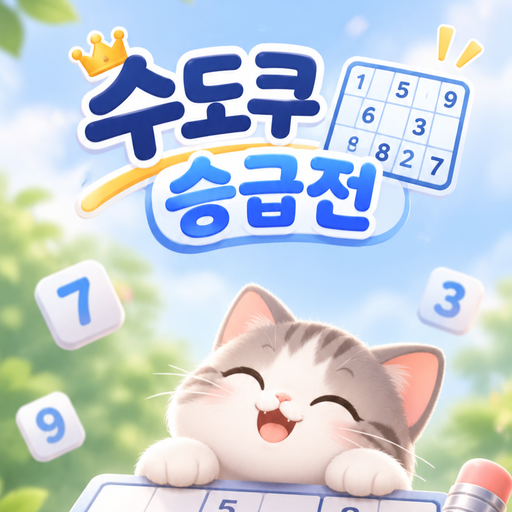
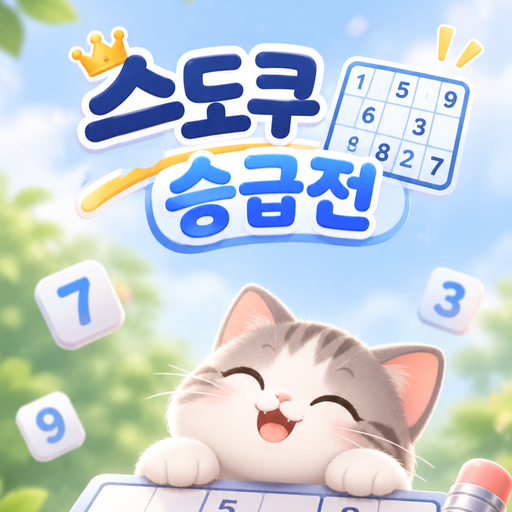
시작 그림과 앱 아이콘의 제목 '수도쿠'를 게임 이름 '스도쿠'로 고침 (tools/make_gate.py)

Changed region(s): [[0.2188, 0.25, 0.3438, 0.3438]]

diff --git a/index.html b/index.html
@@ -13,12 +13,12 @@
   <meta name="mobile-web-app-capable" content="yes">
   <meta name="apple-mobile-web-app-capable" content="yes">
   <meta name="apple-mobile-web-app-title" content="스도쿠 승급전">
-  <link rel="stylesheet" href="css/style.css?v=22">
-  <link rel="stylesheet" href="css/skins.css?v=22">
-  <link rel="stylesheet" href="css/screens.css?v=22">
-  <link rel="stylesheet" href="css/about.css?v=22">
+  <link rel="stylesheet" href="css/style.css?v=23">
+  <link rel="stylesheet" href="css/skins.css?v=23">
+  <link rel="stylesheet" href="css/screens.css?v=23">
+  <link rel="stylesheet" href="css/about.css?v=23">
   <link rel="preload" as="image" href="img/gate.webp">
-  <link rel="stylesheet" href="css/dark.css?v=22">
+  <link rel="stylesheet" href="css/dark.css?v=23">
   <!-- 다크 모드와 스킨을 화면이 뜨기 전에 먼저 입힙니다 (밝은 화면이 번쩍이지 않게) -->
   <script>
     (function () {
@@ -727,18 +727,18 @@
 
   <canvas id="confetti" hidden></canvas>
 
-  <script src="js/config.js?v=22"></script>
-  <script src="js/engine.js?v=22"></script>
-  <script src="js/game.js?v=22"></script>
-  <script src="js/progress.js?v=22"></script>
-  <script src="js/settings.js?v=22"></script>
-  <script src="js/skins.js?v=22"></script>
-  <script src="js/sound.js?v=22"></script>
-  <script src="js/effects.js?v=22"></script>
-  <script src="js/badges.js?v=22"></script>
-  <script src="js/account.js?v=22"></script>
-  <script src="js/tutorial.js?v=22"></script>
-  <script src="js/hero.js?v=22"></script>
-  <script src="js/ui.js?v=22"></script>
+  <script src="js/config.js?v=23"></script>
+  <script src="js/engine.js?v=23"></script>
+  <script src="js/game.js?v=23"></script>
+  <script src="js/progress.js?v=23"></script>
+  <script src="js/settings.js?v=23"></script>
+  <script src="js/skins.js?v=23"></script>
+  <script src="js/sound.js?v=23"></script>
+  <script src="js/effects.js?v=23"></script>
+  <script src="js/badges.js?v=23"></script>
+  <script src="js/account.js?v=23"></script>
+  <script src="js/tutorial.js?v=23"></script>
+  <script src="js/hero.js?v=23"></script>
+  <script src="js/ui.js?v=23"></script>
 </body>
 </html>

diff --git a/js/config.js b/js/config.js
@@ -9,8 +9,8 @@
 
   S.Config = {
     // 화면 오른쪽 위에 작게 보이는 버전 (휴대폰에 새 파일이 들어왔는지 확인용)
-    // 고칠 때마다  python tools/bump_version.py  로 올립니다 (sw.js 의 CACHE, index.html 의 ?v= 도 함께) : sudoku-files-v22 → 'v22'
-    VERSION: 'v22',
+    // 고칠 때마다  python tools/bump_version.py  로 올립니다 (sw.js 의 CACHE, index.html 의 ?v= 도 함께) : sudoku-files-v23 → 'v23'
+    VERSION: 'v23',
 
     FAILS_TO_DEMOTE: 3, // 연속으로 이만큼 실패하면 강등
     MAX_MISTAKES: 3, // 한 판에서 틀릴 수 있는 횟수

diff --git a/sw.js b/sw.js
@@ -10,7 +10,7 @@
  * 새 파일(그림, js, css)을 추가했으면 아래 FILES 목록에도 한 줄 넣어 주세요.
  * 버전을 올릴 때는  python tools/bump_version.py  를 쓰면 CACHE, 화면 버전, index.html 의 ?v= 가 한 번에 바뀝니다.
  */
-var CACHE = 'sudoku-files-v22';
+var CACHE = 'sudoku-files-v23';
 var FILES = [
   './',
   'index.html',

diff --git a/tools/make_gate.py b/tools/make_gate.py
@@ -1,0 +1,141 @@
+"""
+시작 그림(대문)과 앱 아이콘을 만듭니다.  (게임 폴더에서)  python tools/make_gate.py
+
+  원본 : img/18884.png  (인터넷에 올리지 않음)
+  할 일 : 1) 그림 제목의 "수도쿠" 를 "스도쿠" 로 고침 (수 글자 아래 세로 막대를 지우고, 왼쪽 옆 모습으로 채움)
+          2) img/gate.webp, img/splash.webp (예전 이름, 같은 그림) 저장
+          3) icons/ 의 앱 아이콘 4개 저장
+  확인용 : python tools/make_gate.py 확인  → _preview/gate_fix.png 에 고친 부분을 크게 저장
+"""
+import os
+import sys
+from PIL import Image, ImageFilter, ImageDraw
+
+ROOT = os.path.join(os.path.dirname(os.path.abspath(__file__)), '..')
+
+
+def p(*a):
+    return os.path.join(ROOT, *a)
+
+
+im = Image.open(p('img', '18884.png')).convert('RGB')
+W, H = im.size
+px = im.load()
+
+
+def dark(c):
+    r, g, b = c
+    return b > 90 and r < 90 and g < 110  # 제목 글자의 진한 남색
+
+
+def orange(c):
+    r, g, b = c
+    return r > 200 and 110 < g < 215 and b < 120  # 제목 아래 주황 띠
+
+
+# ---- 1) "수" 의 가로 막대 아래쪽 경계선 찾기 (막대는 오른쪽으로 갈수록 올라감) ----
+def bar_bottom(x):
+    """세로로 훑어서 남색 덩어리들 중 가로 막대(위쪽 ㅅ 획 다음 덩어리)의 아래 끝"""
+    runs, start = [], None
+    for y in range(275, 440):
+        if dark(px[x, y]):
+            if start is None:
+                start = y
+        elif start is not None:
+            runs.append((start, y))
+            start = None
+    bars = [r for r in runs if r[0] >= 305 and 25 <= r[1] - r[0] <= 50]
+    return bars[0][1] if bars else None
+
+
+xs = [x for x in list(range(180, 238)) + list(range(294, 322)) if bar_bottom(x)]
+pts = [(x, bar_bottom(x)) for x in xs]
+n = len(pts)
+mx = sum(x for x, _ in pts) / n
+my = sum(y for _, y in pts) / n
+slope = sum((x - mx) * (y - my) for x, y in pts) / sum((x - mx) ** 2 for x, _ in pts)
+
+
+def line(x):
+    return my + slope * (x - mx)
+
+
+# ---- 세로 막대 자리(흰 테두리 포함)를 왼쪽 기준 줄의 모습으로 덮기 ----
+X0, X1 = 218, 306          # 덮을 가로 범위 (세로 막대와 그 흰 테두리, 그림자까지)
+REF = 200                  # 기준 줄 (막대가 없는 곳)
+FEATHER = 10               # 가장자리를 부드럽게 섞는 폭
+src = im.copy()
+spx = src.load()
+
+
+def sky_column(x):
+    """x 줄의 하늘 색 (주황 띠나 흰 테두리 같은 하늘 아닌 곳은 바로 위 하늘 색으로 이어 씀)"""
+    out, last = {}, spx[x, 300]
+    for y in range(300, H):
+        r, g, b = spx[x, y]
+        if b > r + 15 and b > 200:  # 하늘(푸른 빛)
+            last = (r, g, b)
+        out[y] = last
+    return out
+
+
+SKY_L, SKY_R = sky_column(X0 - 1), sky_column(X1 + 1)
+def mix(a, b, k):
+    return tuple(int(a[i] * (1 - k) + b[i] * k) for i in range(3))
+
+
+for x in range(X0, X1 + 1):
+    w = min(1.0, (x - X0 + 1) / FEATHER, (X1 - x + 1) / FEATHER)
+    t = (x - X0 + 1) / (X1 - X0 + 2)
+    base = int(round(line(x)))
+    # 주황 띠 윗선 (여기 바로 위까지만 덮고, 경계 몇 줄은 섞어서 부드럽게)
+    otop = next((y for y in range(base + 20, min(H, base + 90)) if orange(spx[x, y])), base + 80)
+    for y in range(base - 6, otop + 2):
+        dy = y - base
+        # 위쪽(막대 아랫선 · 흰 테두리 · 그림자)은 왼쪽 기준 줄을 그대로 옮기고,
+        # 그 아래 하늘은 양옆 하늘 색을 이어서 칠합니다 (세로 이음매가 생기지 않게)
+        fy = line(REF) + (y - line(x))  # 소수점까지 맞춰서 막대 아랫선이 계단지지 않게
+        y0 = int(fy)
+        ref = mix(spx[REF, y0], spx[REF, y0 + 1], fy - y0)
+        sky = mix(SKY_L[y], SKY_R[y], t)
+        k = min(1.0, max(0.0, (dy - 28) / 14))
+        fill = mix(ref, sky, k)
+        if y >= otop - 2:
+            fill = mix(fill, spx[x, y], (y - (otop - 3)) / 5)
+        px[x, y] = mix(spx[x, y], fill, w)
+# 이음매를 아주 살짝 흐리게
+box = (X0 - 4, int(line(X1)) - 8, X1 + 4, int(line(X0)) + 82)
+im.paste(im.crop(box).filter(ImageFilter.GaussianBlur(0.6)), box[:2])
+
+if len(sys.argv) > 1:
+    os.makedirs(p('_preview'), exist_ok=True)
+    a = Image.open(p('img', '18884.png')).convert('RGB').crop((100, 150, 440, 460))
+    b = im.crop((100, 150, 440, 460))
+    out = Image.new('RGB', (a.width * 2 + 10, a.height), 'white')
+    out.paste(a, (0, 0))
+    out.paste(b, (a.width + 10, 0))
+    out.resize((out.width * 2, out.height * 2)).save(p('_preview', 'gate_fix.png'))
+    print('saved _preview/gate_fix.png')
+    sys.exit()
+
+# ---- 2) 시작 그림 ----
+im.save(p('img', 'gate.webp'), 'WEBP', quality=80, method=6)
+im.save(p('img', 'splash.webp'), 'WEBP', quality=80, method=6)
+
+# ---- 3) 앱 아이콘 : 제목과 고양이가 들어가는 정사각형 ----
+Y0 = 120
+sq = im.crop((0, Y0, W, Y0 + W))
+for size, name in [(512, 'icon-512.png'), (192, 'icon-192.png'), (180, 'apple-touch-icon.png')]:
+    sq.resize((size, size), Image.LANCZOS).save(p('icons', name), optimize=True)
+# maskable : 안전 영역(가운데 80%) 안에 그림이 다 들어가게, 바깥은 흐린 그림으로
+S = 512
+bg = sq.resize((S, S), Image.LANCZOS).filter(ImageFilter.GaussianBlur(18))
+inner = int(S * 0.8)
+fg = sq.resize((inner, inner), Image.LANCZOS)
+mask = Image.new('L', (inner, inner), 0)
+ImageDraw.Draw(mask).rounded_rectangle((0, 0, inner - 1, inner - 1), radius=inner // 6, fill=255)
+mask = mask.filter(ImageFilter.GaussianBlur(6))
+off = (S - inner) // 2
+bg.paste(fg, (off, off), mask)
+bg.save(p('icons', 'icon-maskable-512.png'), optimize=True)
+print('saved img/gate.webp, img/splash.webp, icons/*', 'slope=%.3f' % slope)
